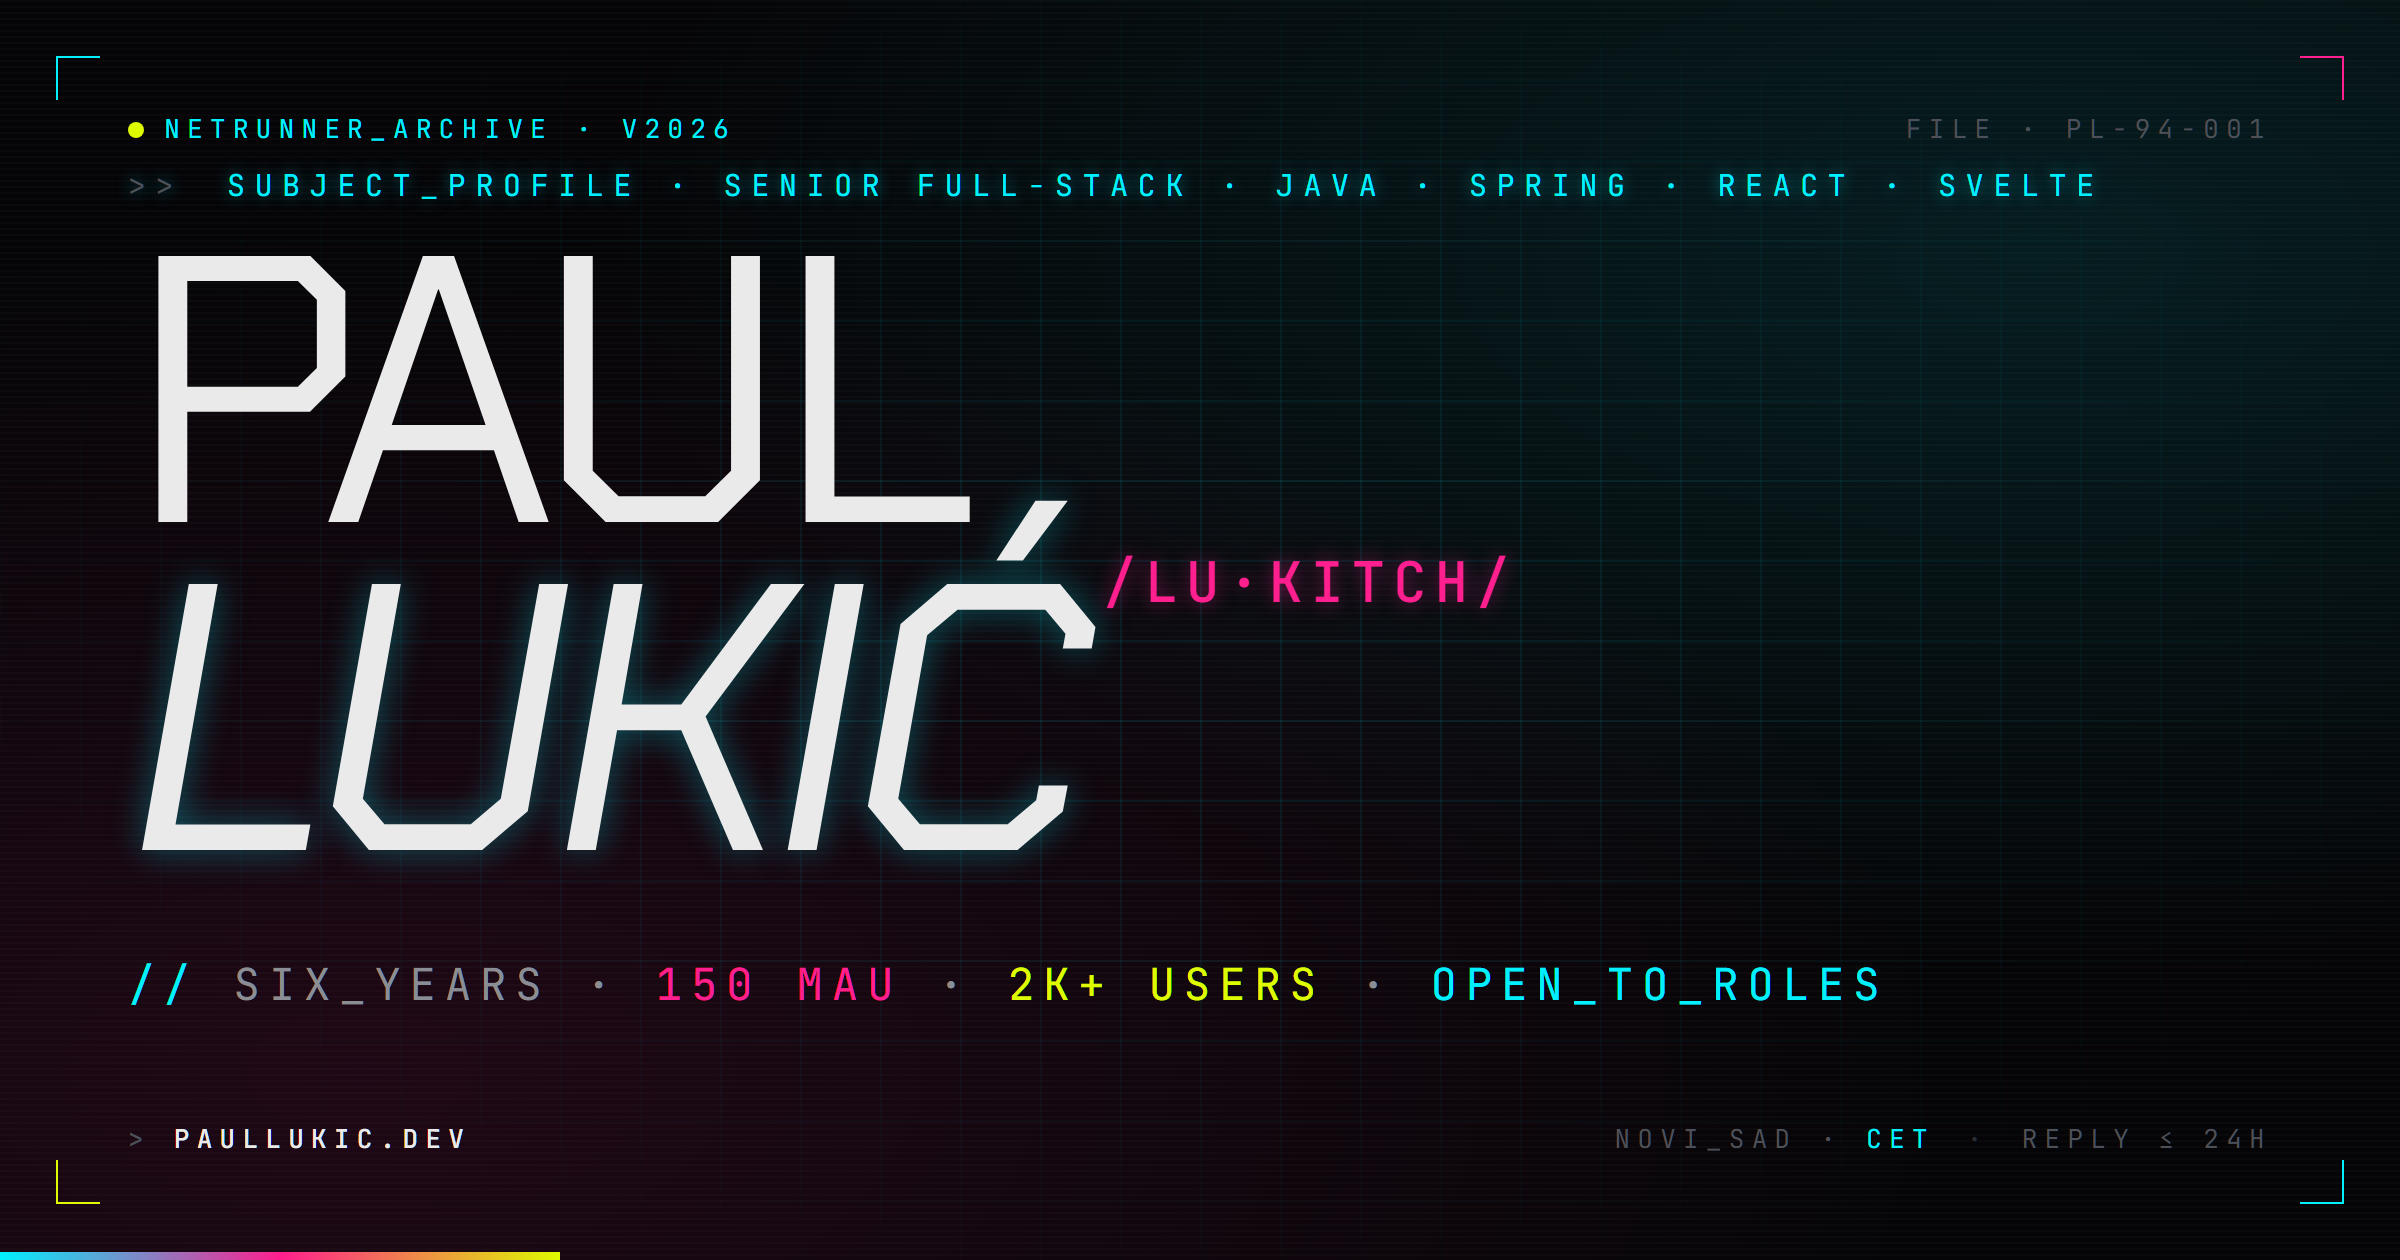
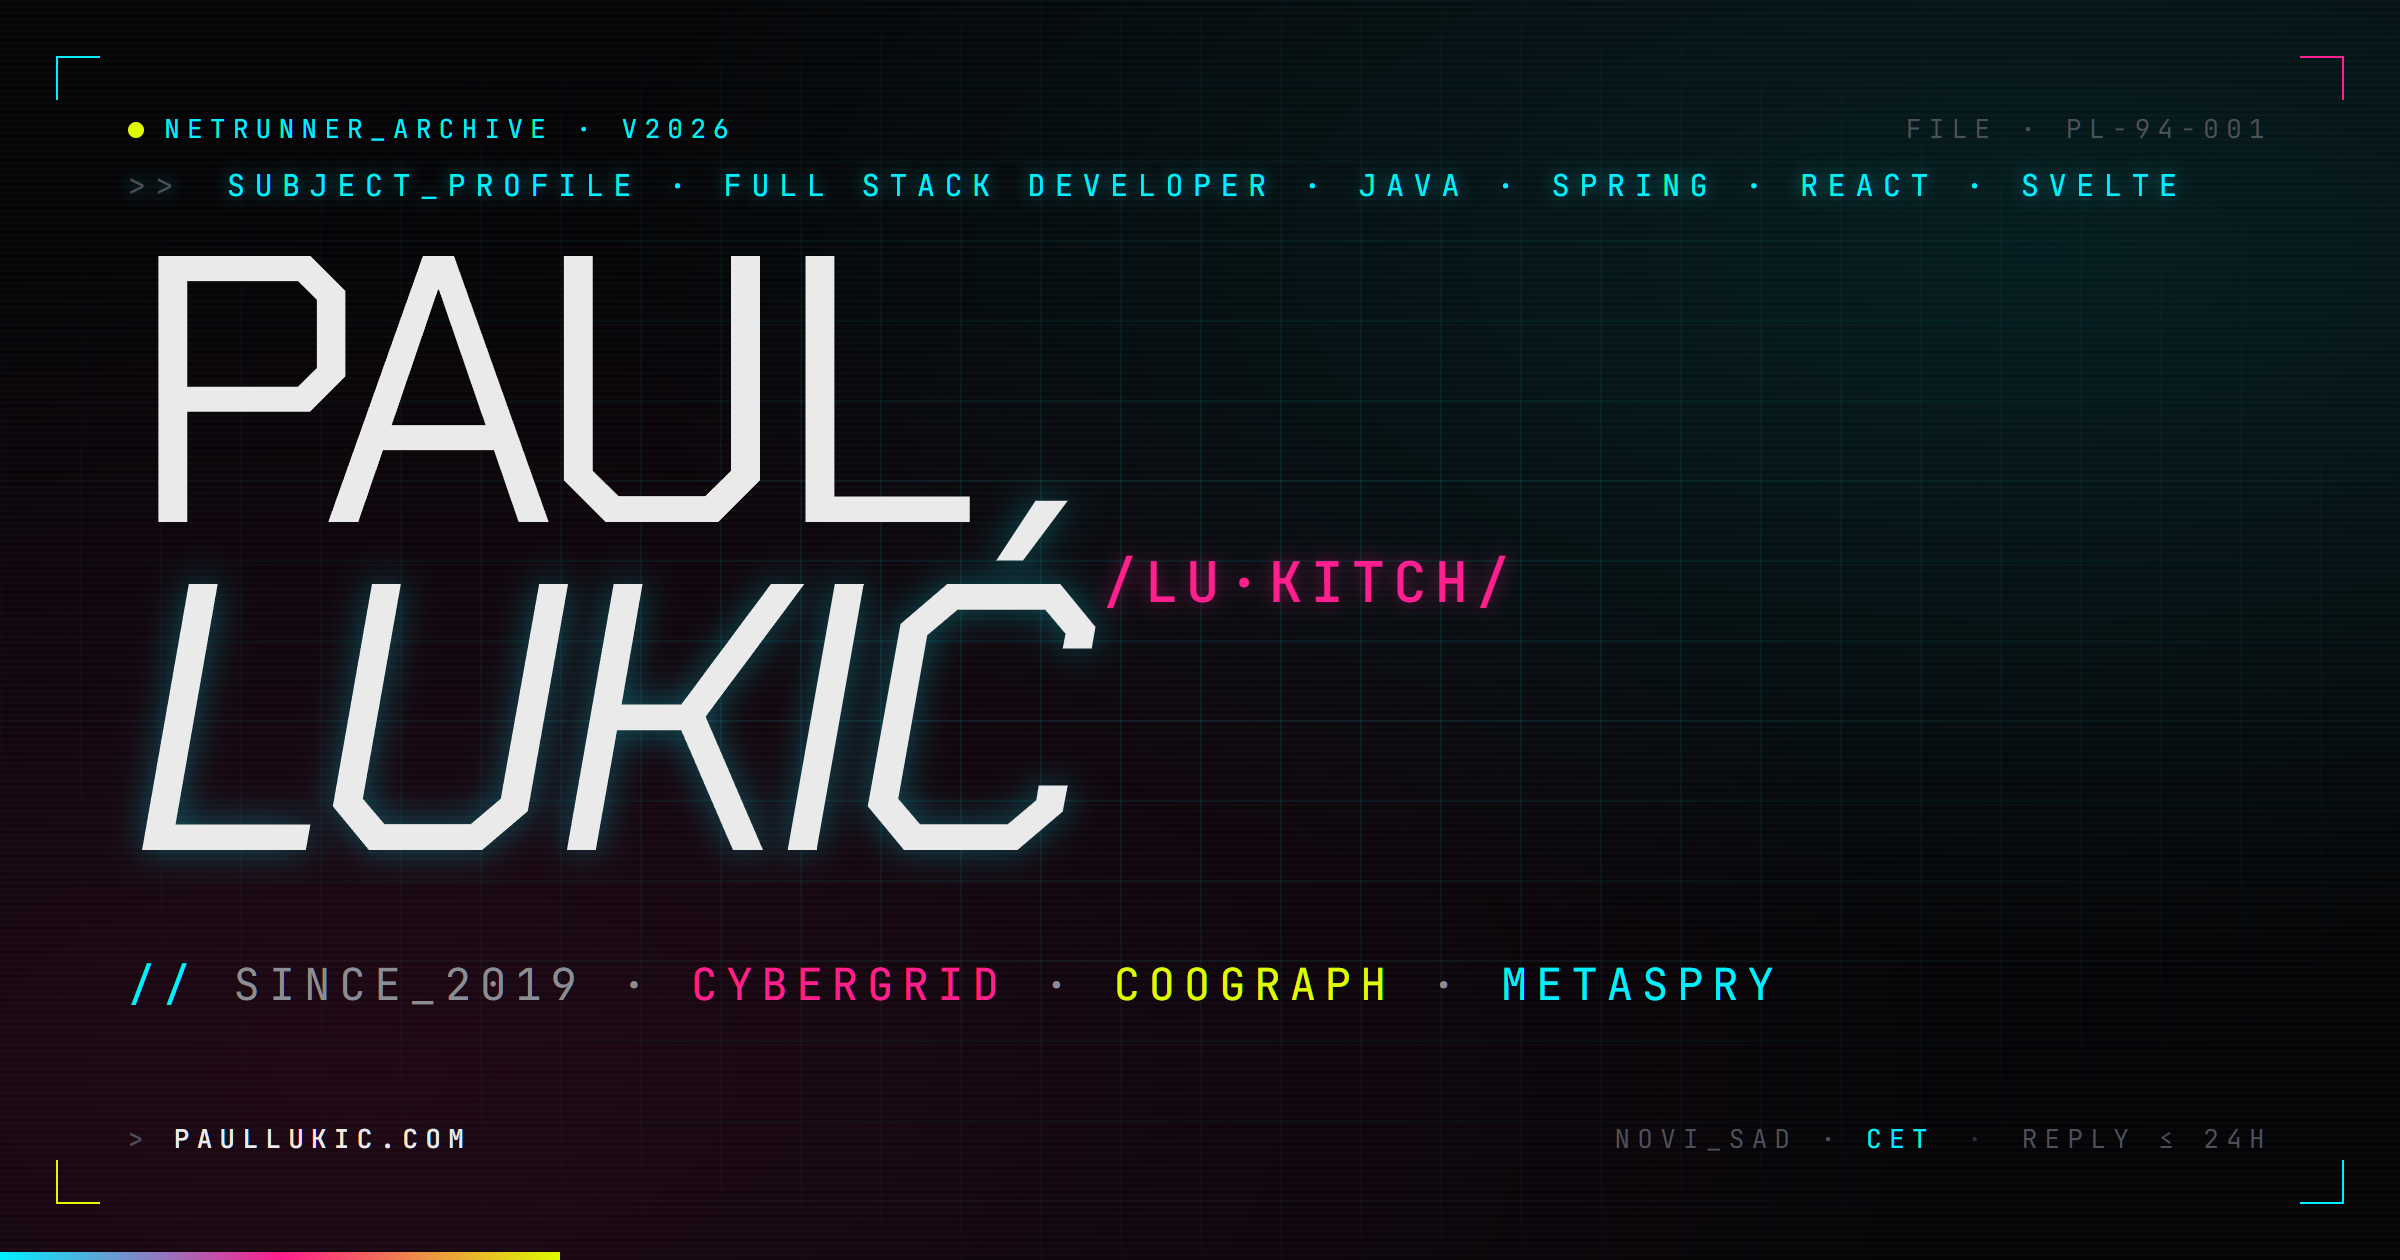
build: prerender the home page and 404, add site checks, refresh OG image
- scripts/prerender.mjs renders / and the 404 page in headless Chromium
  (reduced motion, Plausible blocked) after `vite build` and writes real HTML
  into dist/, so crawlers, link previews and no-JS visitors get every section
- Reveal-on-scroll only hides content once JS runs (html.js marker set in the
  head) and never under reduced motion, so the static HTML stays readable
- scripts/check-site.mjs: TODO(paul) markers (fail with --release), phone
  numbers in src/public/dist, canonical/og:url/sitemap/robots on
  https://paullukic.com/, no paullukic.dev, prerender present, and with
  --links every outbound content link
- npm scripts: build (vite + prerender), build:spa, build:release (build +
  release checks), check:site; CI installs Chromium before building
- og.png regenerated: Full Stack Developer, since 2019, paullukic.com

diff --git a/src/index.css b/src/index.css
@@ -576,17 +576,28 @@
   }
 
   /* IntersectionObserver reveal — scroll-triggered */
+  /* Hidden only once JS is known to run (html.js is set in index.html), so the
+     prerendered page stays fully readable without JavaScript. */
   [data-reveal] {
     position: relative;
+  }
+  html.js [data-reveal] {
     opacity: 0;
     transform: translateY(24px);
     transition: opacity 0.9s cubic-bezier(0.2, 0.7, 0.2, 1),
       transform 0.9s cubic-bezier(0.2, 0.7, 0.2, 1);
     transition-delay: var(--reveal-delay, 0ms);
   }
-  [data-reveal].is-revealed {
+  html.js [data-reveal].is-revealed {
     opacity: 1;
     transform: none;
+  }
+  @media (prefers-reduced-motion: reduce) {
+    html.js [data-reveal] {
+      opacity: 1;
+      transform: none;
+      transition: none;
+    }
   }
 
   /* fallback scanlines inside boot panel */

diff --git a/index.html b/index.html
@@ -5,6 +5,7 @@
     <meta name="viewport" content="width=device-width, initial-scale=1.0" />
     <meta name="theme-color" content="#050507" />
     <meta name="color-scheme" content="dark" />
+    <script>document.documentElement.classList.add("js")</script>
 
     <title>Paul Lukić — Full Stack Developer · Java · Spring · React · Svelte</title>
     <meta
